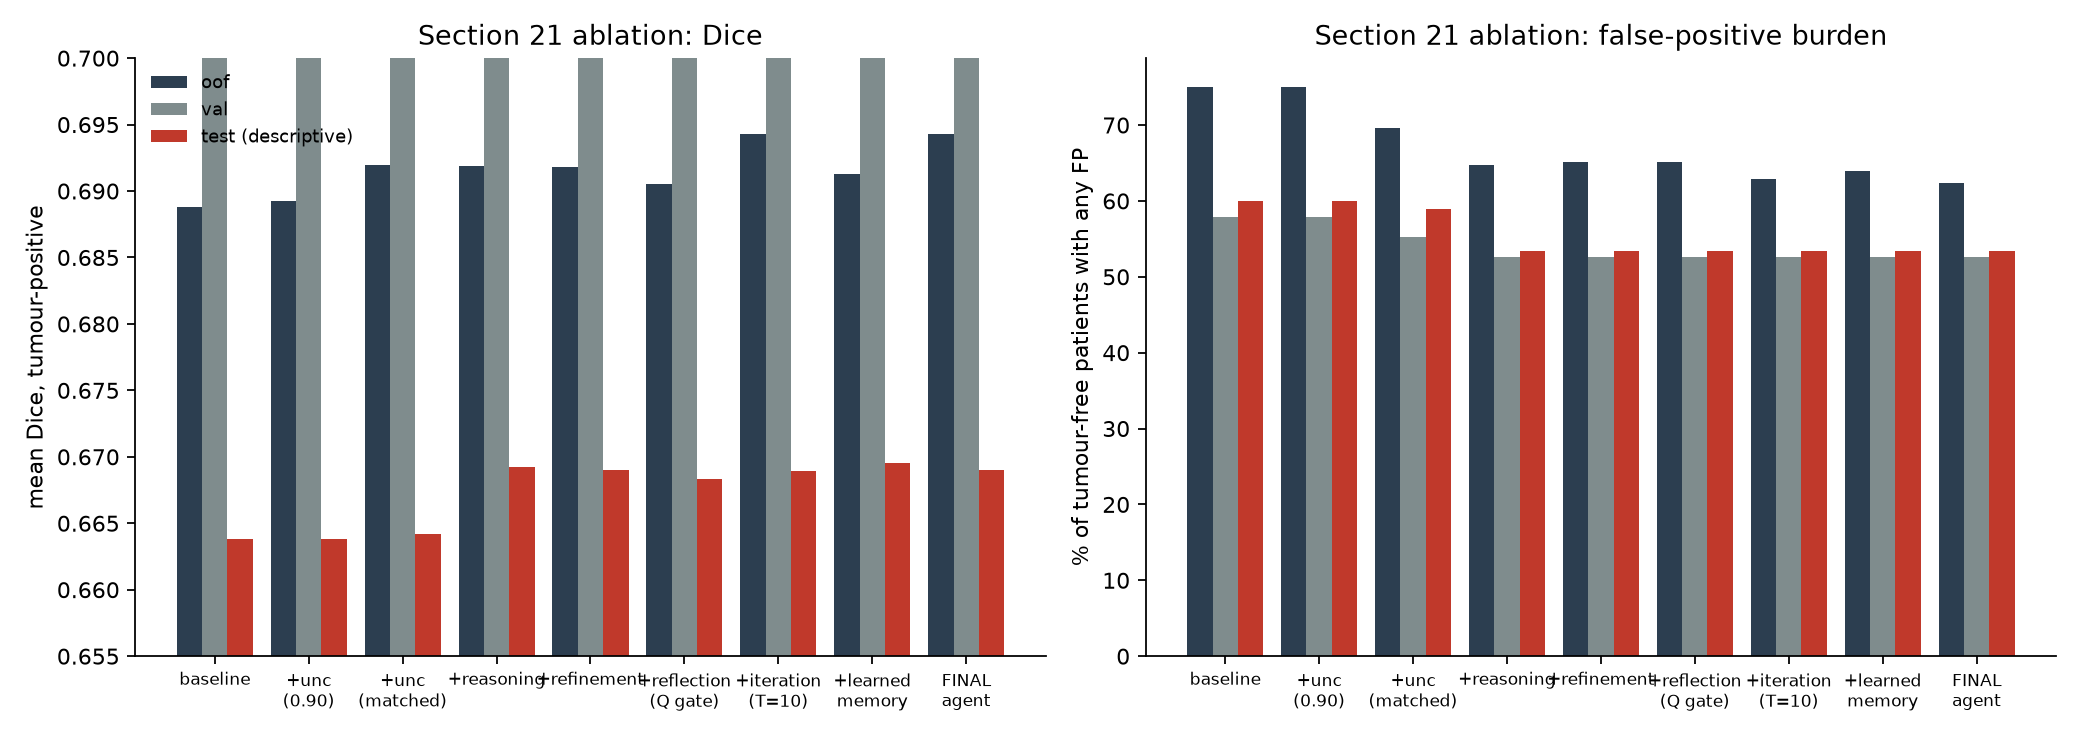
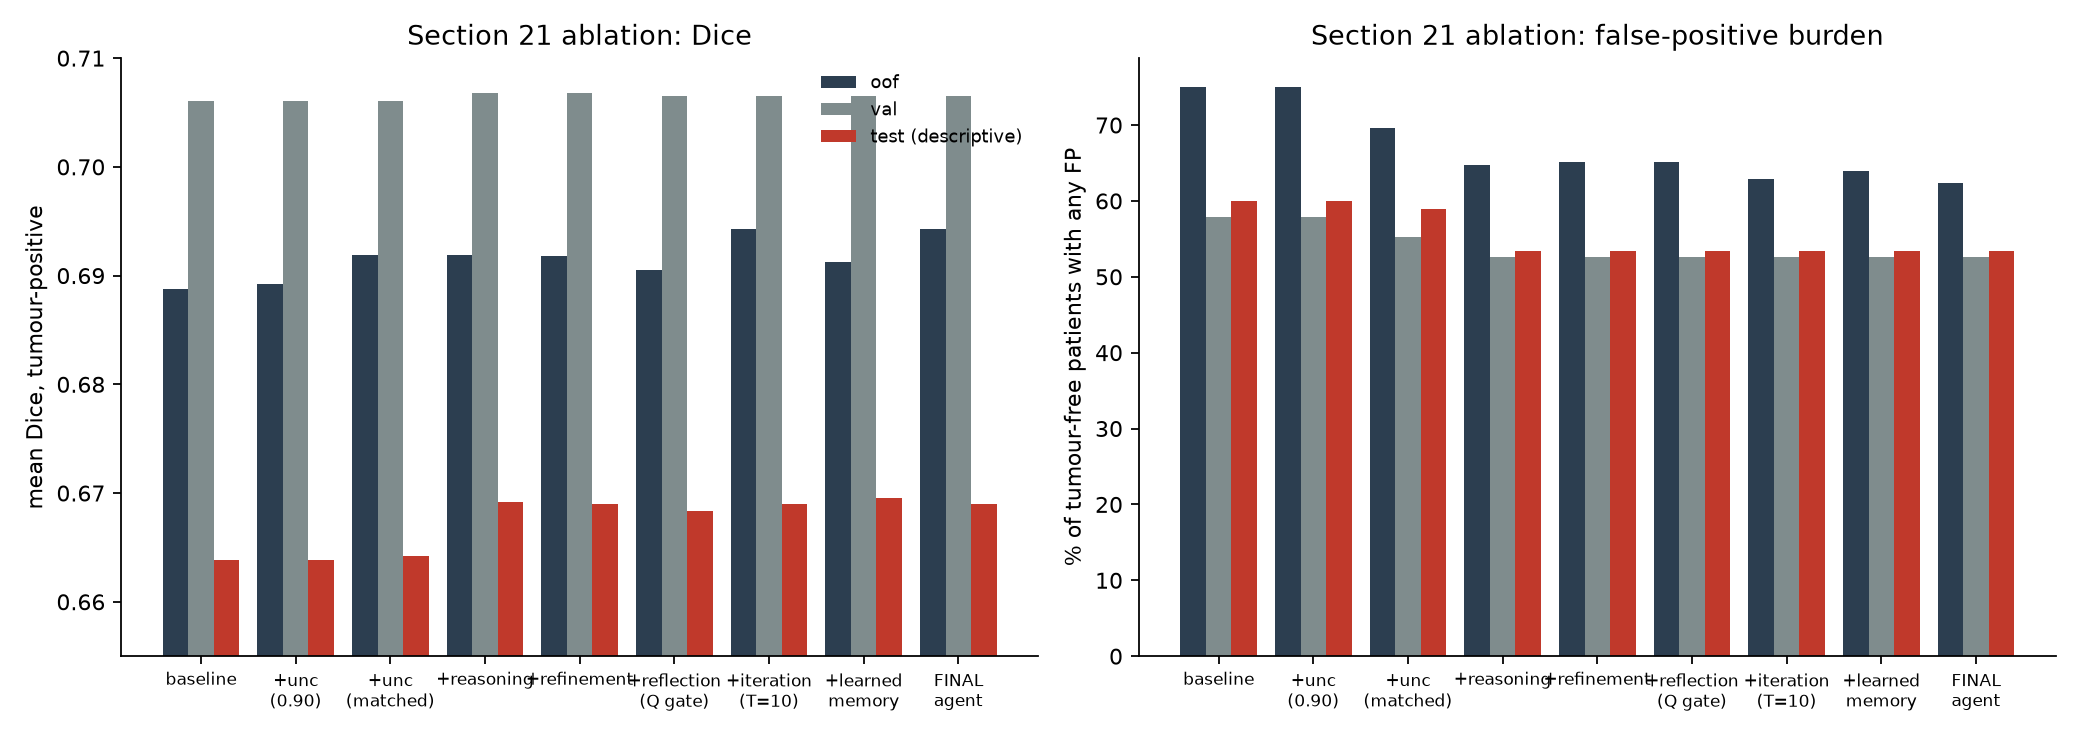
Raise the Dice axis in fig_final_ablation so the validation bars are not clipped
The section 21 ablation figure capped its Dice axis at 0.700 while the
validation bars sit at 0.7061-0.7068, so every one of them was cut off at the
top. The axis now reaches 0.710 and the plotted range is 0.6638 to 0.7068, with
headroom.

Nothing else changed: same data, same bars, same colours, labels, order,
figure size and dpi. No number is recomputed -- every value is read from
final_eval_tables.json, which the analysis wrote and which this does not touch.

One thing worth flagging, since the request was for a one-line plotting change:
there was no plotting script to edit. This figure came from an inline command
that was never committed, so scripts/plot_final_ablation.py is a new file that
reproduces exactly what that command drew, with the single changed constant
isolated as DICE_YLIM and commented. That makes the figure regenerable rather
than leaving a PNG nobody can rebuild.

Changed region(s): [[0.0, 0.0312, 0.9688, 0.9688], [0.625, 0.0312, 0.9062, 0.0625], [0.0312, 0.0625, 0.0625, 0.0938]]

diff --git a/scripts/plot_final_ablation.py b/scripts/plot_final_ablation.py
@@ -1,0 +1,78 @@
+#!/usr/bin/env python3
+"""Regenerate `docs/results/fig_final_ablation.png` (work plan section 21).
+
+The figure was originally produced by an inline command that was never
+committed, so this script exists to make it reproducible. It draws exactly what
+that command drew, from the same `final_eval_tables.json`, with one change: the
+Dice axis now reaches 0.71 so the validation bars (0.7061-0.7068) are not
+clipped by the old 0.700 limit. No number is recomputed here - every value is
+read from the JSON the analysis wrote.
+
+    python scripts/plot_final_ablation.py
+"""
+from __future__ import annotations
+
+import argparse
+import json
+from pathlib import Path
+
+import matplotlib
+matplotlib.use("Agg")
+import matplotlib.pyplot as plt
+import numpy as np
+
+ORDER = ["M0", "unc", "uncmatch", "reason", "refine", "reflect", "iterate",
+         "learned", "finalagent"]
+LABELS = ["baseline", "+unc\n(0.90)", "+unc\n(matched)", "+reasoning",
+          "+refinement", "+reflection\n(Q gate)", "+iteration\n(T=10)",
+          "+learned\nmemory", "FINAL\nagent"]
+SPLITS = (("oof", "#2c3e50"), ("val", "#7f8c8d"), ("test", "#c0392b"))
+
+# Raised from 0.700: the validation bars sit at 0.7061-0.7068 and were clipped.
+DICE_YLIM = (0.655, 0.710)
+
+
+def main() -> None:
+    ap = argparse.ArgumentParser()
+    ap.add_argument("--tables", type=Path,
+                    default=Path(r"D:\data\reports\final_eval_tables.json"))
+    ap.add_argument("--out", type=Path,
+                    default=Path(__file__).resolve().parent.parent
+                    / "docs" / "results" / "fig_final_ablation.png")
+    args = ap.parse_args()
+
+    T = json.load(open(args.tables, encoding="utf-8"))
+    fig, ax = plt.subplots(1, 2, figsize=(13, 4.6))
+    x = np.arange(len(ORDER))
+    w = 0.27
+
+    for k, (sp, c) in enumerate(SPLITS):
+        v = [T["section21"][sp][t]["dice"] for t in ORDER]
+        ax[0].bar(x + (k - 1) * w, v, w, color=c,
+                  label=f"{sp}{' (descriptive)' if sp == 'test' else ''}")
+        n = [T["section21"][sp][t]["neg_with_fp"] for t in ORDER]
+        tot = T["section21"][sp]["M0"]["n_neg"]
+        ax[1].bar(x + (k - 1) * w, [100 * a / tot for a in n], w, color=c)
+
+    ax[0].set_ylim(*DICE_YLIM)
+    ax[0].set_ylabel("mean Dice, tumour-positive")
+    ax[0].set_title("Section 21 ablation: Dice")
+    ax[0].legend(fontsize=8, frameon=False)
+    ax[1].set_ylabel("% of tumour-free patients with any FP")
+    ax[1].set_title("Section 21 ablation: false-positive burden")
+    for a in ax:
+        a.set_xticks(x)
+        a.set_xticklabels(LABELS, fontsize=7.5)
+        a.spines[["top", "right"]].set_visible(False)
+
+    fig.tight_layout()
+    fig.savefig(args.out, dpi=160)
+    lo = min(T["section21"][sp][t]["dice"] for sp, _ in SPLITS for t in ORDER)
+    hi = max(T["section21"][sp][t]["dice"] for sp, _ in SPLITS for t in ORDER)
+    print(f"written {args.out}")
+    print(f"Dice range plotted {lo:.4f} to {hi:.4f}, axis {DICE_YLIM[0]} to "
+          f"{DICE_YLIM[1]} -> {'no clipping' if hi <= DICE_YLIM[1] else 'STILL CLIPPED'}")
+
+
+if __name__ == "__main__":
+    main()
